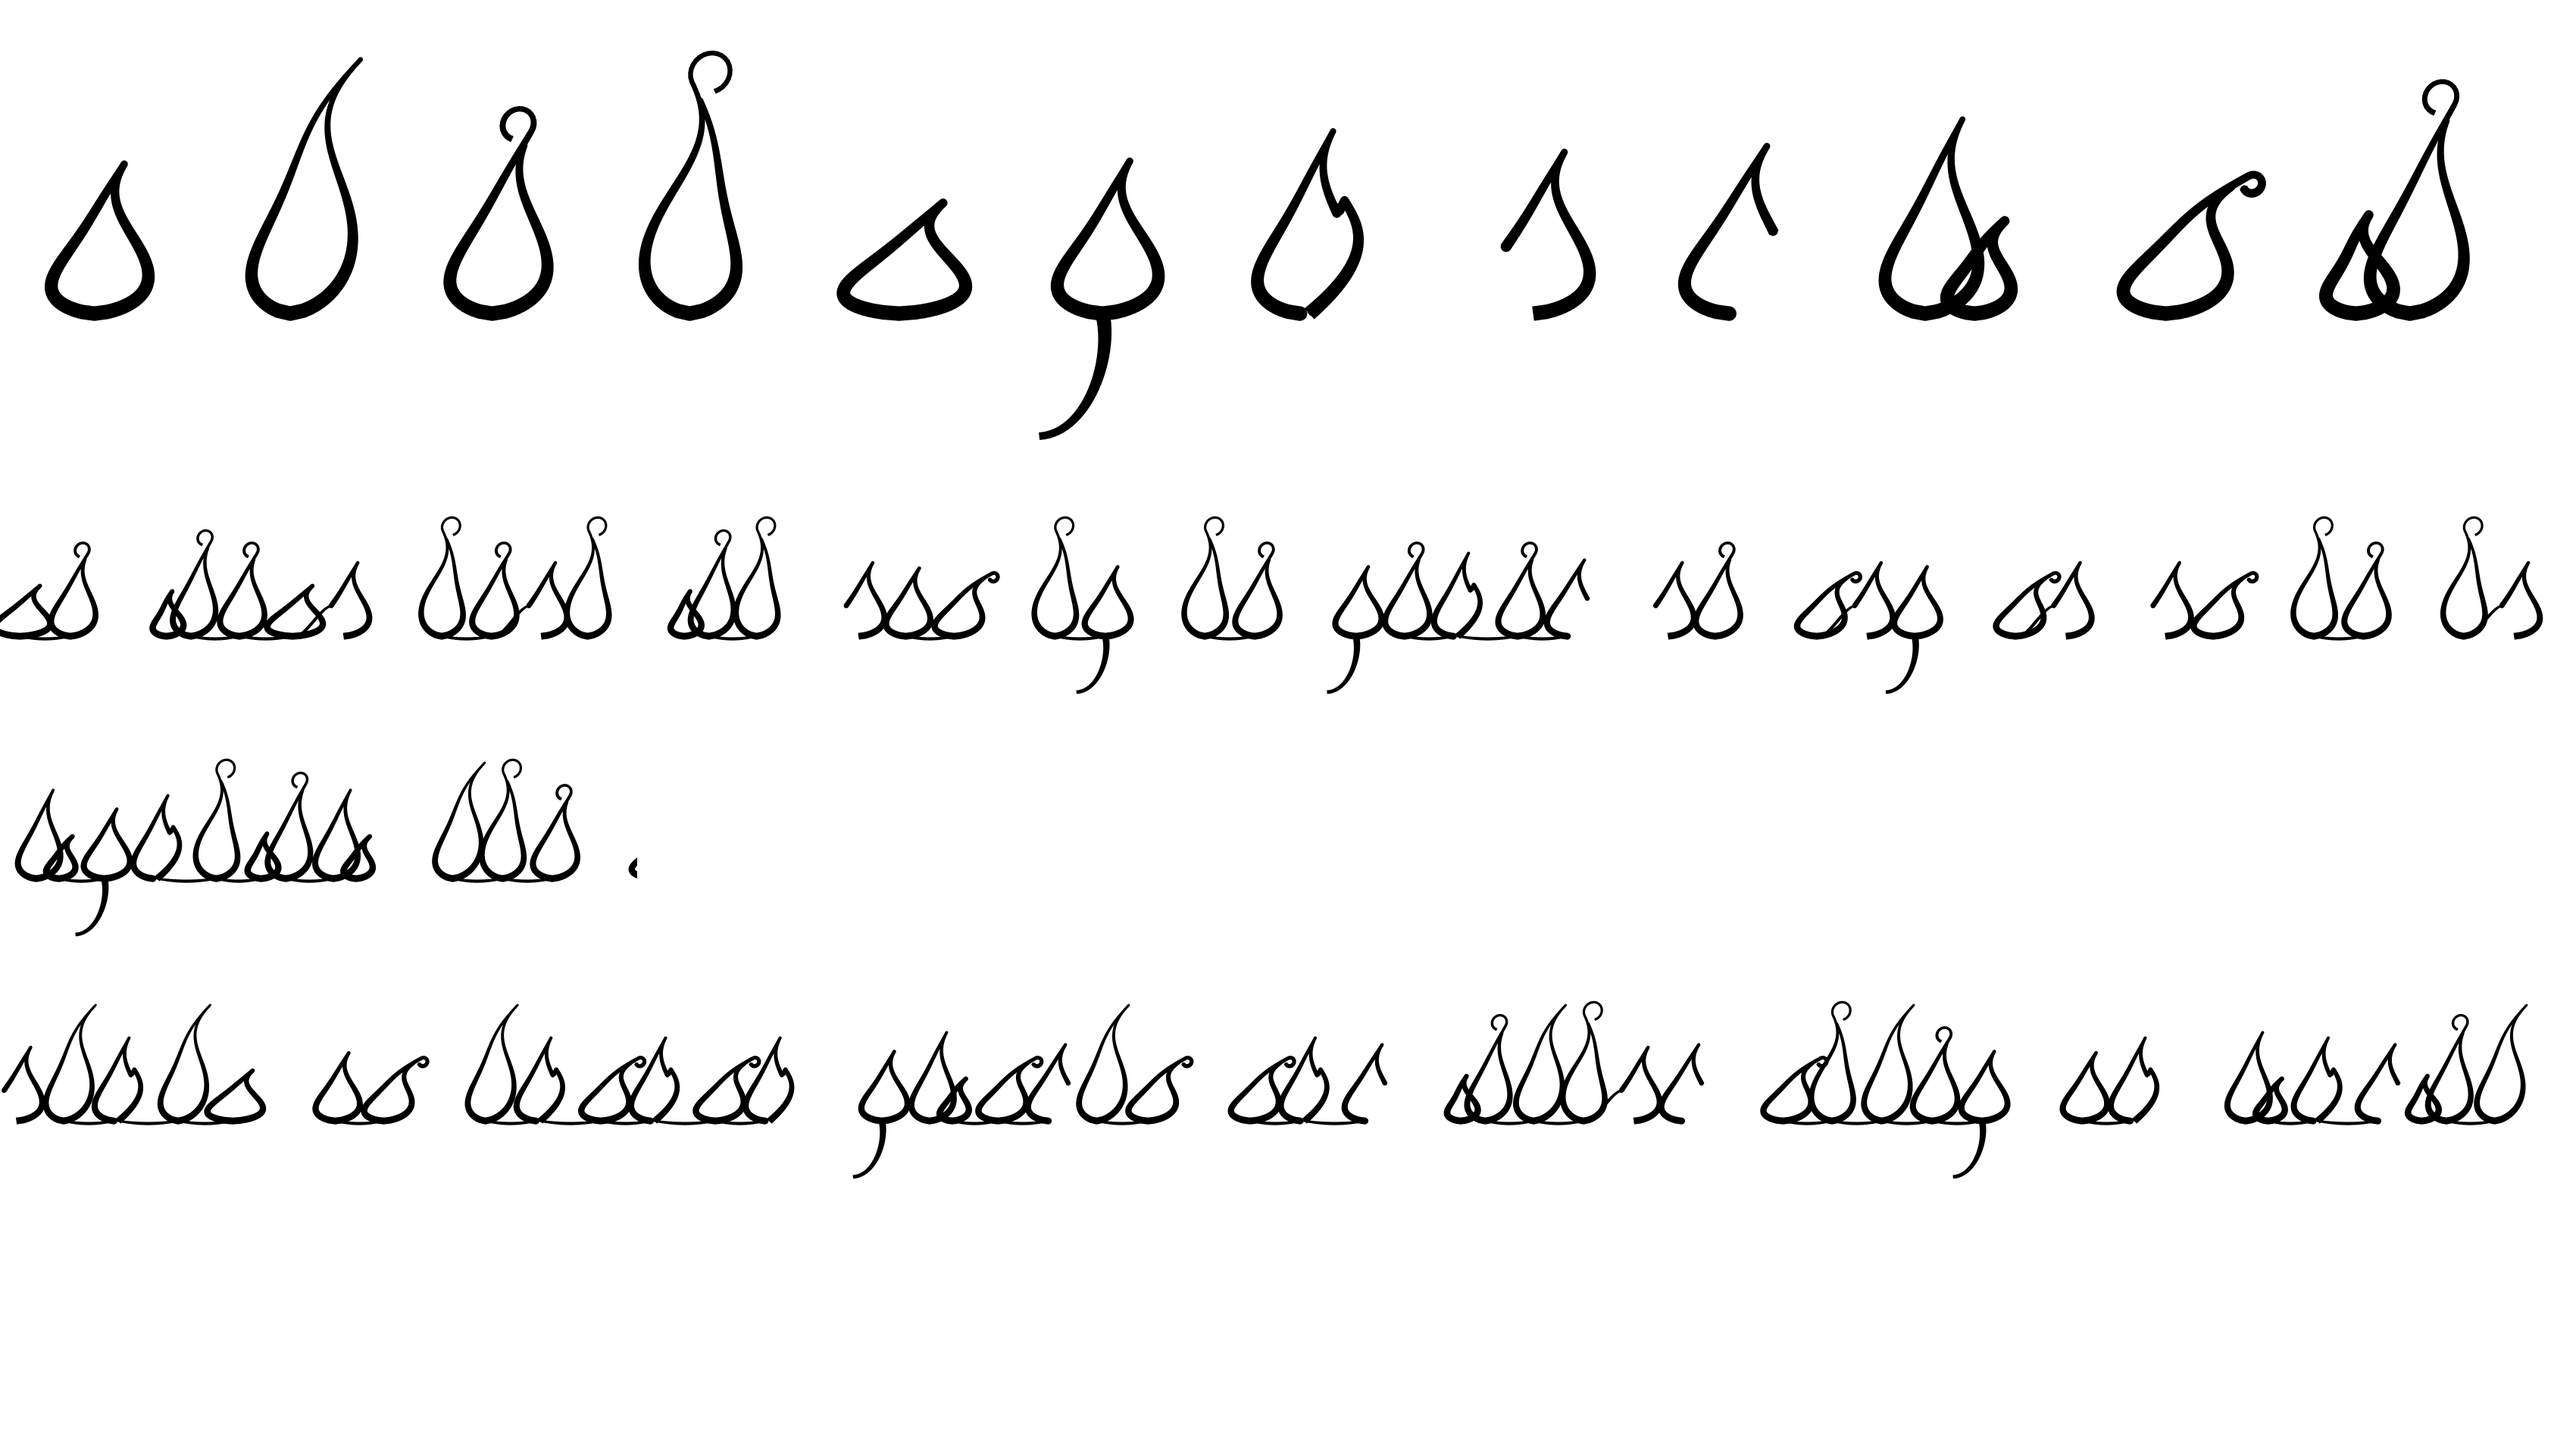
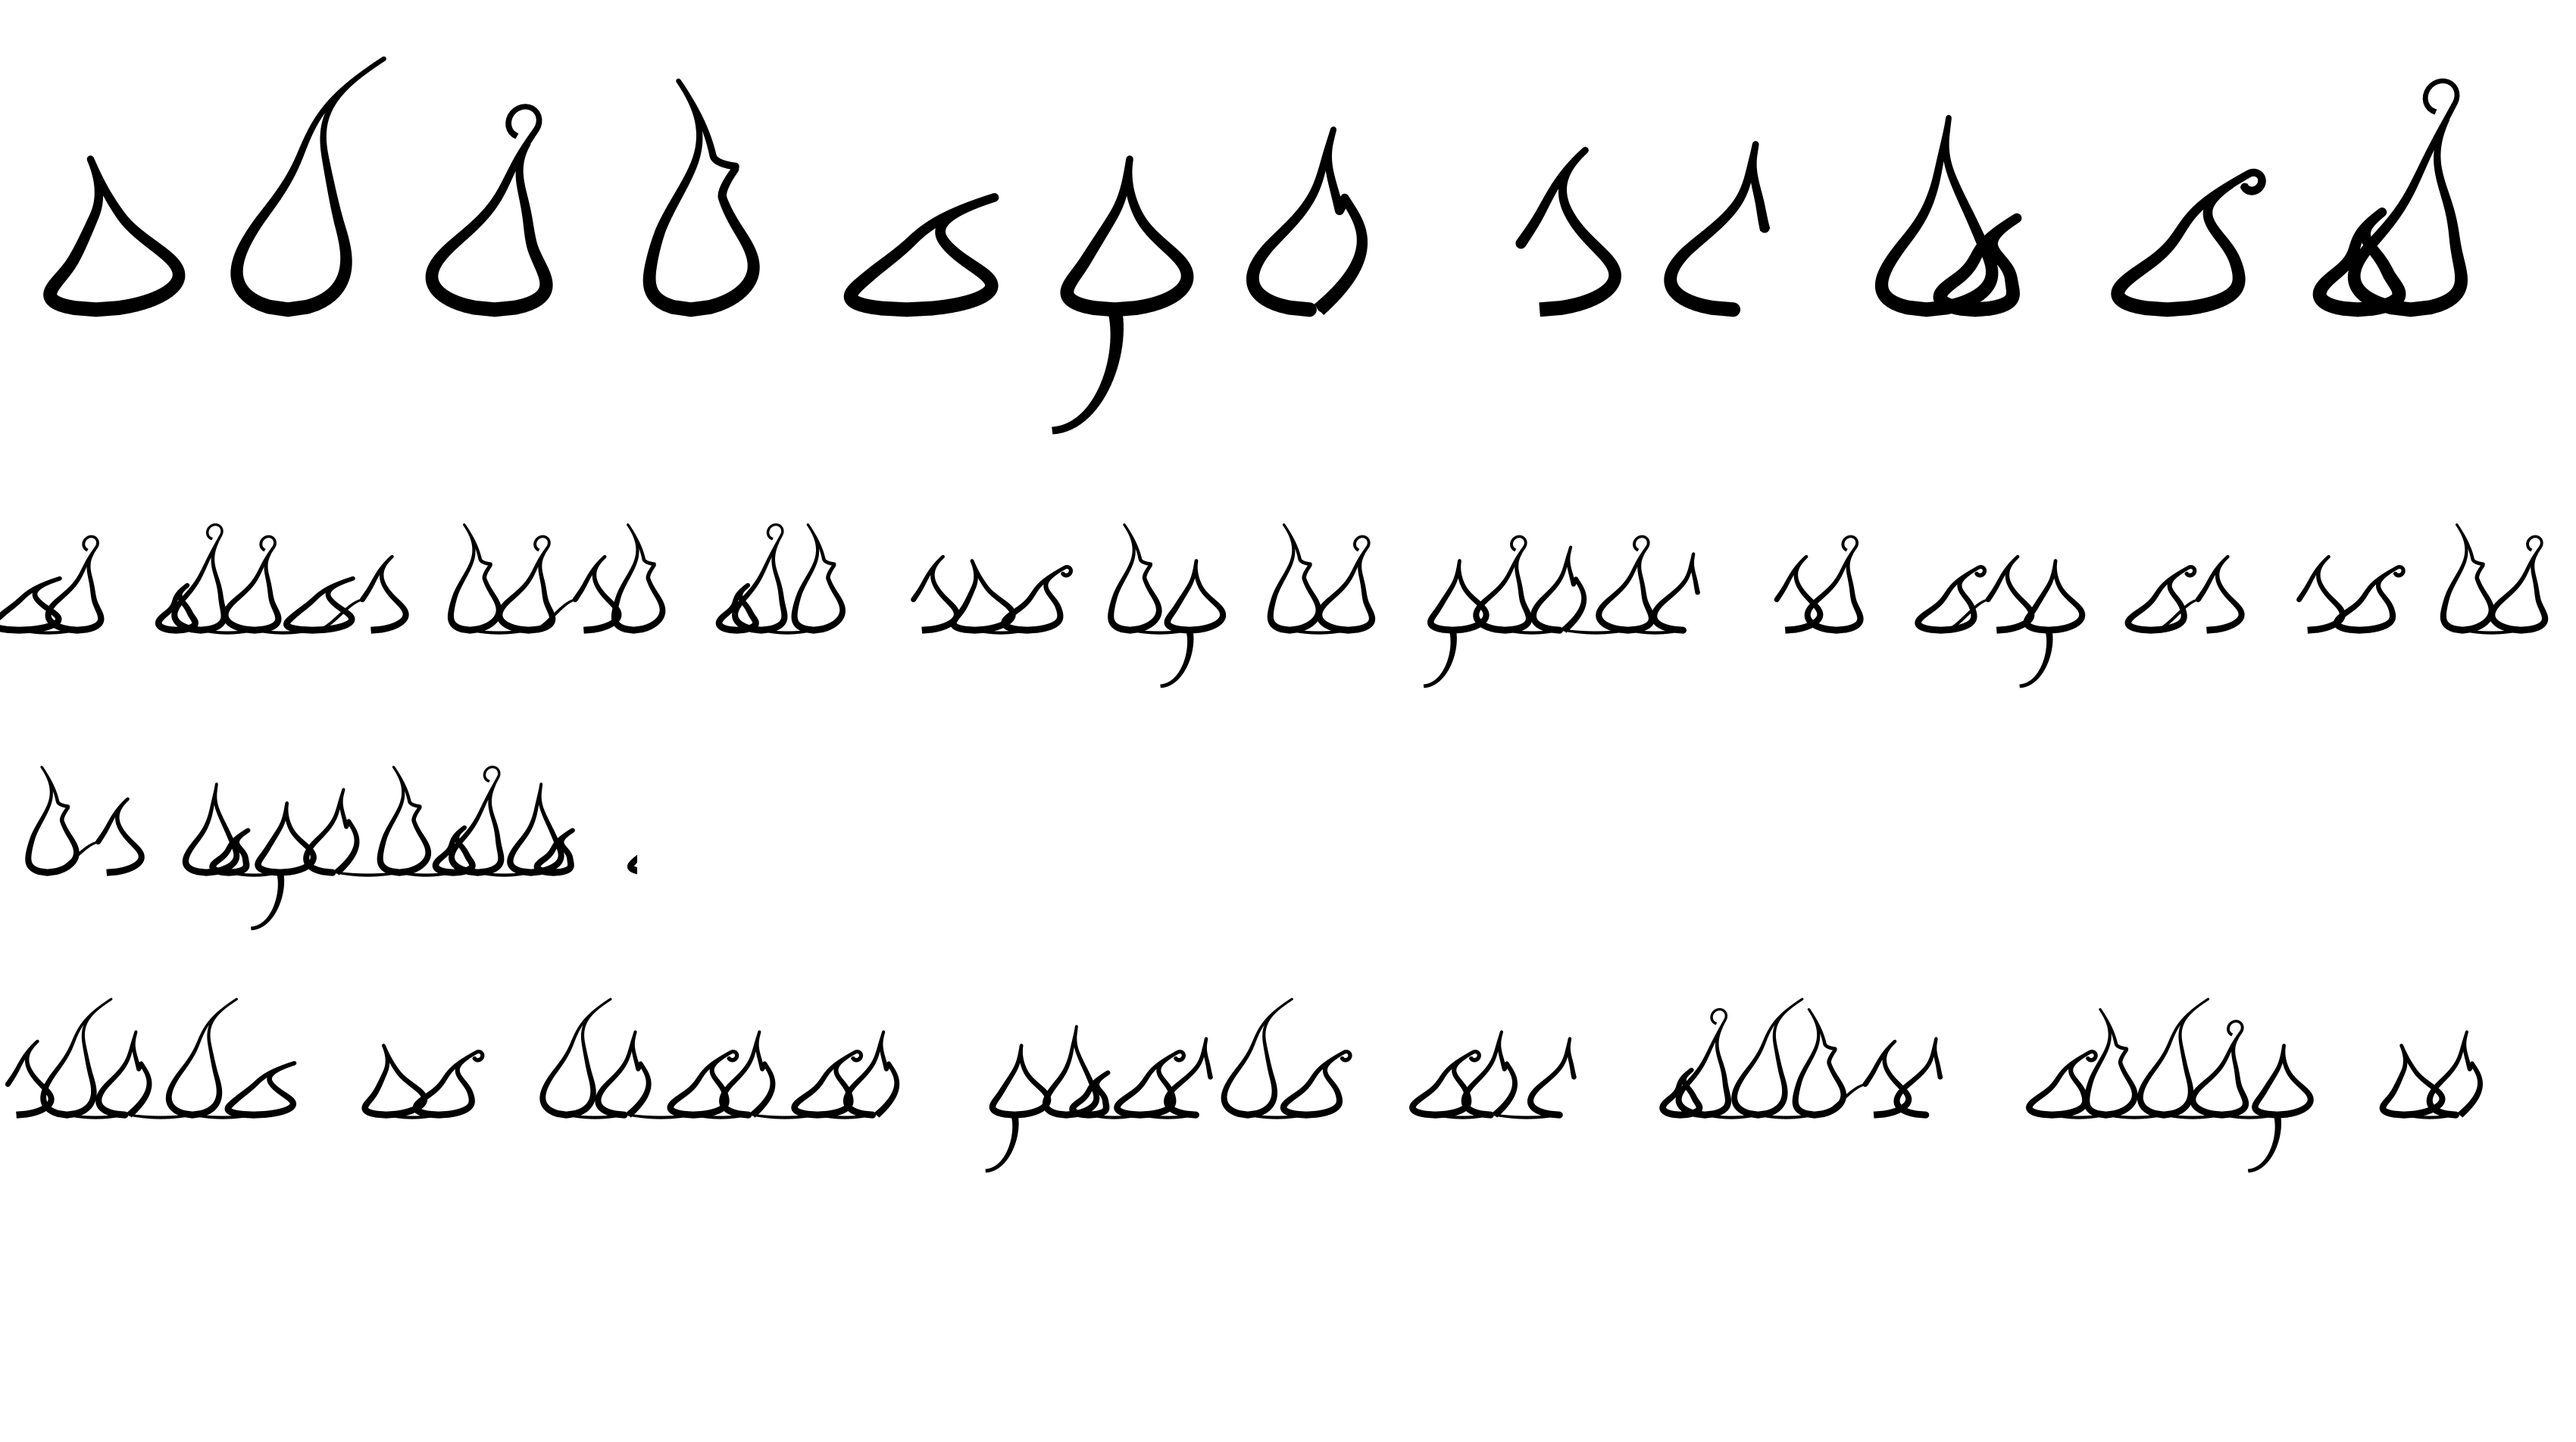
MONTAGE-3D: Ring inscription letterforms revised (lean, flickering tips, uneven bellies, a spur; never droplets), same asset paths

diff --git a/the-long-dawn/shots/montage3d/ring_script.py b/the-long-dawn/shots/montage3d/ring_script.py
@@ -37,7 +37,7 @@ ASC = 1.85          # a tall lick's tip
 DSC = -0.85         # a deep fall's point
 SLANT = 0.10        # a slight forward lean
 W_HAIR = 0.034      # the joining hairline
-GAP = 0.14          # space between letters of a word (em)
+GAP = 0.20          # space between letters of a word (em)
 WORD_GAP = 0.80     # space between words (em)
 
 
@@ -86,16 +86,30 @@ class Pen:
 PEN0, PEN1 = 0.095, 0.030           # stroke width at the base and at the tip (em)
 
 
-def flame(x0, h=1.0, w=0.24, lean=0.12, wig=0.05, open_l=0.0, open_r=0.0, curl=0.0, tail=0.0, twin=0.0, n=90):
+def flame(x0, h=1.0, w=0.24, lean=0.12, wig=0.05, open_l=0.0, open_r=0.0, curl=0.0, tail=0.0, twin=0.0, n=90,
+          belly=0.0, flick=0.0, spur=0.0, spur_at=0.62):
     """One flame outline with its left base at (x0, 0). Returns [(P, widths), ...] and its right base point.
     open_l / open_r: the fraction of that side (from the base) left undrawn. curl: the tip bends on into a small
     open hook (>0 back to the left, <0 forward). tail: the right side runs on below the line and sweeps back.
     twin: a second, lower tip beside the first (the outline dips to a notch between them)."""
     t = np.linspace(0.0, 1.0, n)
-    half = w * np.sin(np.pi * t ** 0.62) * (1.0 - t) ** 1.05 / 0.52
-    c = x0 + w + lean * t ** 2 + wig * np.sin(2.0 * np.pi * t) * t
-    left = np.stack([c - half, h * t], 1)
-    right = np.stack([c + half, h * t], 1)
+    half = w * np.sin(np.pi * t ** 0.55) * (1.0 - t) ** 1.45 / 0.43
+    # the sides waver, each on its own phase, more toward the tip (a flame, never a droplet)
+    ph = 7.3 * h + 11.0 * lean + 5.0 * w
+    wav = 0.035 * np.clip(t / 0.35, 0, 1)
+    # a flickering tip: the top third of the flame bends aside (flick > 0 to the right)
+    c = x0 + w + lean * t ** 2 + wig * np.sin(2.0 * np.pi * t) * t + flick * np.clip((t - 0.62) / 0.38, 0, 1) ** 2
+    # an uneven belly: one side fuller than the other (belly > 0: the right side)
+    hl = half * (1.0 - belly * np.sin(np.pi * np.clip(t / 0.8, 0, 1))) + wav * np.sin(3.0 * np.pi * t + ph) * (1 - t)
+    hr = half * (1.0 + belly * np.sin(np.pi * np.clip(t / 0.8, 0, 1))) + wav * np.sin(3.4 * np.pi * t + ph + 1.9) * (1 - t)
+    hl, hr = np.maximum(hl, 0.0), np.maximum(hr, 0.0)
+    # a spur: a small tongue licking off the right side at spur_at of the height (pointed, rising)
+    if spur:
+        tri = np.clip(1.0 - np.abs(t - spur_at) / 0.09, 0.0, 1.0) ** 1.6
+        hr = hr + spur * tri
+    left = np.stack([c - hl, h * t], 1)
+    right = np.stack([c + hr, h * t + (0.35 * spur * h * np.clip(1.0 - np.abs(t - spur_at) / 0.09, 0.0, 1.0) ** 1.6
+                                        if spur else 0.0)], 1)
     out = []
     if twin:
         # the right half becomes a second flame: from the notch up to a lower tip and down to the base
@@ -149,19 +163,26 @@ def hair(a, b, dip=0.06):
 
 # name: (advance in em, [flame kwargs, ...] with x offsets, joins onward?)
 ALPHABET = {
-    'ka': (0.56, [dict(dx=0.0, h=1.00, w=0.23, lean=0.10)], True),
-    'ta': (0.60, [dict(dx=0.0, h=1.70, w=0.23, lean=0.30, wig=0.13)], True),
-    'ri': (0.58, [dict(dx=0.0, h=1.22, w=0.23, lean=0.14, curl=1.0)], True),
-    'lo': (0.58, [dict(dx=0.0, h=1.55, w=0.22, lean=-0.14, wig=-0.10, curl=-1.0)], True),
-    'mu': (0.66, [dict(dx=0.0, h=0.74, w=0.29, lean=0.22)], True),
-    'se': (0.58, [dict(dx=0.0, h=1.02, w=0.24, lean=0.08, tail=1.0)], False),
-    'na': (0.80, [dict(dx=0.0, h=1.22, w=0.23, lean=0.10, twin=1.0)], True),
-    'vo': (0.56, [dict(dx=0.0, h=1.08, w=0.24, lean=0.10, open_l=0.42)], False),
-    'di': (0.58, [dict(dx=0.0, h=1.12, w=0.24, lean=0.14, open_r=0.48)], False),
-    'he': (0.84, [dict(dx=0.0, h=1.30, w=0.22, lean=0.12), dict(dx=0.40, h=0.62, w=0.15, lean=0.14)], True),
-    'wa': (0.60, [dict(dx=0.0, h=0.92, w=0.24, lean=0.46, wig=0.10, curl=-0.8)], True),
-    'zu': (0.86, [dict(dx=0.0, h=0.66, w=0.16, lean=0.02), dict(dx=0.30, h=1.40, w=0.22, lean=0.16, curl=0.9)],
-           True),
+    # a small flame, full on the right, its tip flicking back to the left
+    'ka': (0.58, [dict(dx=0.0, h=1.02, w=0.25, lean=0.08, wig=0.07, belly=0.35, flick=-0.22)], True),
+    # a tall flame leaning into the wind in a long S, its tip thrown forward
+    'ta': (0.64, [dict(dx=0.0, h=1.70, w=0.22, lean=0.34, wig=0.16, belly=-0.2, flick=0.14)], True),
+    # a flame whose tip bends back over itself into a hook
+    'ri': (0.60, [dict(dx=0.0, h=1.22, w=0.23, lean=0.16, wig=0.06, belly=-0.3, curl=1.0)], True),
+    # a tall flame leaning back, a tongue licking off its right side
+    'lo': (0.64, [dict(dx=0.0, h=1.55, w=0.21, lean=-0.16, wig=-0.08, belly=0.25, spur=0.13, spur_at=0.58,
+                       flick=-0.08)], True),
+    # a low flame lying in the wind
+    'mu': (0.70, [dict(dx=0.0, h=0.76, w=0.28, lean=0.30, wig=0.08, belly=0.2, flick=0.22)], True),
+    'se': (0.58, [dict(dx=0.0, h=1.02, w=0.24, lean=0.08, belly=0.2, flick=-0.08, tail=1.0)], False),
+    'na': (0.80, [dict(dx=0.0, h=1.22, w=0.23, lean=0.10, belly=-0.15, flick=-0.06, twin=1.0)], True),
+    'vo': (0.56, [dict(dx=0.0, h=1.08, w=0.24, lean=0.10, belly=0.25, flick=0.1, open_l=0.42)], False),
+    'di': (0.58, [dict(dx=0.0, h=1.12, w=0.24, lean=0.14, belly=-0.25, flick=-0.1, open_r=0.48)], False),
+    'he': (0.86, [dict(dx=0.0, h=1.30, w=0.22, lean=0.12, belly=0.2, flick=-0.1),
+                  dict(dx=0.40, h=0.62, w=0.15, lean=0.16, flick=0.06)], True),
+    'wa': (0.62, [dict(dx=0.0, h=0.92, w=0.24, lean=0.46, wig=0.10, belly=0.2, curl=-0.8)], True),
+    'zu': (0.88, [dict(dx=0.0, h=0.66, w=0.16, lean=0.02, flick=0.08),
+                  dict(dx=0.30, h=1.40, w=0.22, lean=0.16, belly=-0.2, curl=0.9)], True),
 }
 ORDER = ['ka', 'ta', 'ri', 'lo', 'mu', 'se', 'na', 'vo', 'di', 'he', 'wa', 'zu']
 

diff --git a/the-long-dawn/shots/montage3d/NOTES.md b/the-long-dawn/shots/montage3d/NOTES.md
@@ -1,6 +1,6 @@
 # MONTAGE-3D — notes
 
-## >>> CANONICAL RING INSCRIPTION (published 27 Sep 10:40Z): HEROINE, EMBERS, ACCORD-v3 match THIS <<<
+## >>> CANONICAL RING INSCRIPTION (published 10:40Z, letterforms revised 10:58Z per the director; APPROVED; RING ONLY, not the book): HEROINE, EMBERS, ACCORD-v3 match THIS <<<
 * **Texture:** `the-long-dawn/assets/ring/inscription_outer.png` (9040x640) and `inscription_inner.png` (7264x640),
   16-bit grey, white = letter coverage. Mapping + proportions: `assets/ring/inscription.json`. Specimen:
   `assets/ring/inscription_specimen.png`. Generator at any resolution: `shots/montage3d/ring_script.py`
